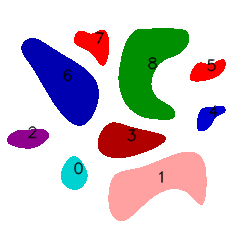
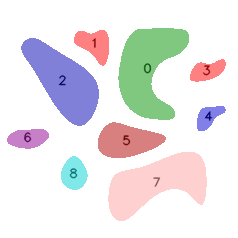
Split printing and measuring of properties

diff --git a/assignment-3/transformations.py b/assignment-3/transformations.py
@@ -3,11 +3,7 @@ import numpy as np
 
 from utils import BGR_RED, WHITE
 
-def contours(img, objects_are_black=True, draw_bbox=False):
-    ''' Returns an image displaying the contours (edges) of objects present in img '''
-    __img = color_to_black(img).astype('uint8')
-    contours, _ = cv2.findContours(__img, cv2.RETR_TREE, cv2.CHAIN_APPROX_SIMPLE)
-    return cv2.drawContours(np.full(img.shape, WHITE), contours if draw_bbox else contours[1:], -1, BGR_RED)
+###############################################################################
 
 def color_to_black(img):
     ''' Converts every non-white pixel of a colored image to black, returning a binary image '''
@@ -26,4 +22,71 @@ def y_linear(img, bgr=True):
 def y_srgb(img, bgr=True):
     __img = y_linear(img, bgr) / 255
     return 255 * np.where(__img <= 0.0031308, 12.92 * __img, 1.055 * np.power(__img, 1/2.4) - 0.055)
+
+###############################################################################
+
+def contours(img, objects_are_black=True, draw_bbox=False):
+    ''' Returns an image displaying the contours (edges) of objects present in img '''
+    __img = color_to_black(img).astype('uint8')
+    contours, _ = cv2.findContours(__img, cv2.RETR_TREE, cv2.CHAIN_APPROX_SIMPLE)
+    return cv2.drawContours(np.full(img.shape, WHITE), contours if draw_bbox else contours[1:], -1, BGR_RED)
+
+###############################################################################
+
+def print_region_properties(properties):
+    ''' Pretty prints a region properties dictionary '''
+    n_of_regions = len(properties)
+    region_padding = len(str(n_of_regions))
+    print(f"número de regiões: {n_of_regions}")
+    for region in properties.keys():
+        print("região {0:{1}d}:  área: {2:4.0f}  perímetro: {3:10.6f}  "
+              "excentricidade: {4:8.6f}  solidez: {5:8.6f}".format(
+                  region, region_padding, 
+                  properties[region]['area'], properties[region]['perimeter'], 
+                  properties[region]['eccentricity'], properties[region]['solidity']
+              )
+        )
+
+def number_regions(img, disconsider_bbox=True):
+    ''' Returns an image with each object (region) in img numbered at its centroid\n
+        and a dictionary with the area, perimeter, eccentricity and solidity for each object '''
+    __img = color_to_black(img).astype('uint8')
+    contours, _ = cv2.findContours(__img, cv2.RETR_TREE, cv2.CHAIN_APPROX_SIMPLE)
+    if disconsider_bbox:
+        contours = contours[1:]
     
+    text_layer = np.full(img.shape, WHITE, dtype='uint8')
+    properties = { region: dict() for region in range(len(contours)) }
+    for region, contour in enumerate(reversed(contours)):
+        M = cv2.moments(contour)
+        cx, cy = __centroid(M)
+        org = (cx - (4 if region < 10 else 8), cy + 4)
+        cv2.putText(text_layer, str(region), org, color=(0, 0, 0), thickness=1, 
+                    fontFace=cv2.FONT_HERSHEY_SIMPLEX, fontScale=0.4, lineType=cv2.LINE_AA)
+        properties[region]['centroid']     = (cx, cy)
+        properties[region]['area']         = M['m00']
+        properties[region]['perimeter']    = cv2.arcLength(contour, True)
+        properties[region]['eccentricity'] = __eccentricity(M)
+        properties[region]['solidity']     = __solidity(contour, M['m00'])
+    
+    return cv2.addWeighted(img, 0.5, text_layer, 0.5, 0), properties
+
+def __centroid(M):
+    return int(M['m10'] / M['m00']), int(M['m01'] / M['m00']) # cx, cy
+
+def __eccentricity(M):
+    # FIXME
+    lhs = M['mu20'] + M['mu02']
+    rhs = np.sqrt(4 * M['mu11']**2 + (M['mu20'] - M['mu02'])**2)
+    lambda1 = lhs - rhs # minor axis
+    lambda2 = lhs + rhs # major axis
+    return np.sqrt(1 - (lambda1 / lambda2))
+
+def __solidity(contour, area=None):
+    if area is None:
+        area = cv2.contourArea(contour)
+    hull = cv2.convexHull(contour)
+    hull_area = cv2.contourArea(hull)
+    return area / hull_area
+
+###############################################################################

diff --git a/assignment-3/main.py b/assignment-3/main.py
@@ -3,7 +3,6 @@ import sys
 import os.path
 import argparse
 from utils import *
-from measurements import *
 from transformations import *
 
 def get_parser():
@@ -104,14 +103,21 @@ def do_measurements(images):
     max_count = len(images.items())
     for img_title, img in images.items():
         v_print(f"({count}/{max_count})")
-        apply_and_save(img, transformation=number_regions, save_fname=f"{img_title}_regions")
+        numbered_img, region_properties = number_regions(img)
+        
+        print_region_properties(region_properties)
+        
+        save_fname = f"{img_title}_regions"
+        save(numbered_img, save_fname, folder=args.output_folder)
+        v_print(f"Saved '{save_fname}'")
+        v_print("")
+        
         count += 1
     v_print("")
 
 ###############################################################################
 
 if __name__ == '__main__':
-
     parse_args()
     if args.image == None:
         run_all = prompt_yes_no(default=True, 
